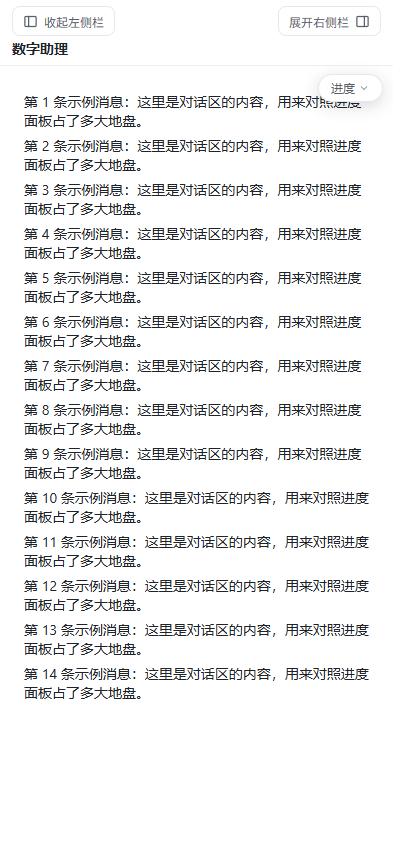
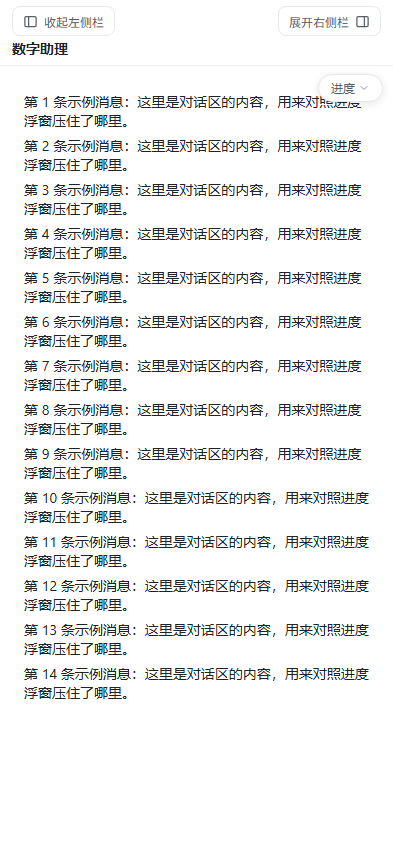
进度面板定位重写：对话区右上角一枚浮窗，折叠＝胶囊、展开＝原地长出的卡片（原「窄屏浮层 / 宽屏流内一行」两套规则合并成一套，无特例）
展开跳位问题：折叠与展开共用同一个右上角锚点（右缘 10px、顶栏下 8px），卡片宽度由 JS 按右侧留白算好写进 --pg-w，所以点开就是从胶囊原地往左下长出来，右缘与顶边一动不动（回归脚本按「展开前后右缘/顶边一致」断言）。

宽度策略：留白放得下就正好塞进留白（借内容列自己的 24px 内边距），一个像素不遮正文——1600 宽实测卡片左缘 1342 ＝ 正文右缘 1342；留白不够（窄屏/中等窗口）才用舒适宽度 340，且默认这时候一律折叠成胶囊，用户点过才展开。面板任何宽度都是浮层：不占对话区高度、出现与折叠切换都不触发重排；CSS 删掉进度面板的窄屏特例整段，:root 补 --tb-h:48px 供浮层对位（窄屏仍覆盖 66px），宽度跟随由窗口缩放 + .msg-col 的 ResizeObserver 驱动（开关左右栏、拖拽调宽对话列都会跟）。

diff --git a/web/app-chat.js b/web/app-chat.js
@@ -1737,19 +1737,37 @@ function renderQuestionsInto(bar) {
   }
 }
 
-/* ---------- 进度面板（progress_write）：可折叠 · 宽屏自动展开 / 窄屏右上角胶囊 ---------- */
-// 进度清单常驻在顶栏下方会一直占掉对话区的高度（手机上尤其致命），所以面板分两态：
-// 收起＝右上角一枚「进度」小胶囊（点它展开），展开＝完整清单（点头部收起）。
-// 用户没点过时按「对话区有没有富余宽度」自动定：宽屏（≥500，与 CSS 的窄屏浮层断点
-// 同源）自动展开；窄屏（手机）没有富余宽度，一律折叠成胶囊，不再顶掉那块高度。
-// 用户点过之后按用户的选择来（本次页面有效，刷新复位）；切换折叠只在本地重画。
-let pgItems = [];       // 最近一次取到的进度项（空 = 没有进度，面板整体隐藏）
-let pgFold = null;      // 用户显式选择：null=自动；true=展开；false=收起
-let pgDrawnOpen = null; // 上次画出来的展开状态（窗口缩放只在状态翻转时重画）
+/* ---------- 进度面板（progress_write）：对话区右上角的一枚浮窗，可折叠 ---------- */
+// 定位只有一个锚点：对话区（#main）的右上角。折叠＝一枚「进度」胶囊，展开＝从同一个
+// 右上角往左下长出来的卡片——右缘与顶边都不动，所以点开是「原地展开」不跳位。
+// 宽度按对话区右侧的留白算（见 pgMetrics）：留白放得下就塞进留白里，不遮正文；留白
+// 不够说明是窄屏/中等窗口，那就用一张舒适宽度的卡（用户自己点开的，遮一点也能接受）。
+// 用户没点过时（pgFold=null）只在留白够的时候自动展开，否则一律折叠成胶囊；点过之后
+// 按用户的选择来（本次页面有效，刷新复位）。面板永远是浮层：不占对话区高度，出现与
+// 折叠切换都不触发对话区重排。
+const PG_W = 340;    // 卡片最大宽度（也是窄屏下舒适阅读宽度）
+const PG_MIN = 220;  // 自动展开的门槛：右侧留白至少放得下这么宽
+const PG_GAP = 10;   // 面板与对话区右缘的间距（胶囊与卡片共用，保证同一锚点）
+const PG_PAD = 24;   // 内容列自身的内边距：留白不够时可以借它，不算遮正文
 
-// 有富余宽度才自动展开：高度也要够（手机横屏高度不足，展开清单会顶掉半屏对话）
-function pgAutoExpand() { return innerWidth >= 500 && innerHeight >= 480; }
-function pgExpanded() { return pgFold === null ? pgAutoExpand() : pgFold; }
+let pgItems = [];    // 最近一次取到的进度项（空 = 没有进度，面板整体隐藏）
+let pgFold = null;   // 用户显式选择：null=自动；true=展开；false=收起
+let pgDrawn = null;  // 上次画出来的展开态（留白变化时只在翻转时才重画）
+
+// 右侧留白 → 卡片宽度与「够不够自动展开」。按 #main 与消息列的实际矩形算，
+// 开关左右栏、拖拽调宽对话列都会自然反映进来（它们都会改变这个留白）。
+function pgMetrics() {
+  const main = $('main'), col = document.querySelector('#messages .msg-col');
+  if (!main || !col) return null;
+  const mainRect = main.getBoundingClientRect();
+  const room = Math.max(0, mainRect.right - col.getBoundingClientRect().right);
+  const fit = room + PG_PAD - PG_GAP; // 塞进留白，顺手借用内容列自己的右内边距
+  return {
+    width: Math.round(Math.min(PG_W, fit >= PG_MIN ? fit : mainRect.width - 2 * PG_GAP)),
+    auto: fit >= PG_MIN,
+  };
+}
+function pgExpanded(mt) { return pgFold === null ? mt.auto : pgFold; }
 
 async function loadProgress() {
   const panel = $('progress-panel');
@@ -1762,16 +1780,19 @@ async function loadProgress() {
   drawProgress();
 }
 
-// 按当前折叠状态重画面板：收起＝胶囊，展开＝头部（整行是收起按钮）+ 清单
+// 按当前折叠状态重画面板：折叠＝胶囊，展开＝头部（整行是收起按钮）+ 清单。
+// 两态共用同一个右上角锚点，宽度写进 --pg-w 交给 CSS，所以展开就是在原地长出来。
 function drawProgress() {
   const panel = $('progress-panel');
   if (!panel) return;
   const items = pgItems;
-  if (!items.length) { panel.classList.add('hidden'); panel.innerHTML = ''; pgDrawnOpen = null; return; }
-  const open = pgExpanded();
-  pgDrawnOpen = open;
+  if (!items.length) { panel.classList.add('hidden'); panel.innerHTML = ''; pgDrawn = null; return; }
+  const mt = pgMetrics() || { width: PG_W, auto: false };
+  const open = pgExpanded(mt);
+  pgDrawn = open;
+  panel.style.setProperty('--pg-w', mt.width + 'px');
   panel.classList.remove('hidden');
-  panel.classList.toggle('pg-folded', !open); // 收起态：胶囊（宽/窄屏各有定位规则）
+  panel.classList.toggle('pg-folded', !open);
   if (!open) {
     panel.innerHTML = '<button type="button" class="pg-pill" title="展开进度清单">进度' + chev('pg-chev') + '</button>';
     panel.querySelector('.pg-pill').onclick = () => { pgFold = true; drawProgress(); };
@@ -1791,10 +1812,22 @@ function drawProgress() {
   panel.querySelector('.progress-head').onclick = () => { pgFold = false; drawProgress(); };
 }
 
-// 窗口缩放/转屏：自动模式下展开与否由宽度决定，翻转了才重画（拖拽缩放过程不重画）
-window.addEventListener('resize', () => {
-  if (pgItems.length && pgExpanded() !== pgDrawnOpen) drawProgress();
-});
+// 留白变了（缩放窗口、开关左右栏、拖拽调宽对话列）：宽度跟着变；自动档下展开态翻转
+// 才重画，其余情况只改宽度不动 DOM
+function syncProgress() {
+  if (!pgItems.length) return;
+  const mt = pgMetrics();
+  if (!mt) return;
+  const panel = $('progress-panel');
+  if (panel && !panel.classList.contains('hidden')) panel.style.setProperty('--pg-w', mt.width + 'px');
+  if (pgExpanded(mt) !== pgDrawn) drawProgress();
+}
+window.addEventListener('resize', syncProgress);
+// 对话列宽度会单独变（拖把手、右栏开合），盯它的尺寸就够了
+if (window.ResizeObserver) {
+  const pgCol = document.querySelector('#messages .msg-col');
+  if (pgCol) new ResizeObserver(syncProgress).observe(pgCol);
+}
 
 /* ---------- SSH 远程工作区（两步式：连接配置 → 保存 → 浏览目录 → 使用） ---------- */
 

diff --git a/AGENT.md b/AGENT.md
@@ -440,12 +440,13 @@ DSH 官方的远程工作区只在 mac/Linux 宿主上可用；本产品用纯 G
   （插入主输入框光标处）、**在右侧辅助问答**——自动打开右栏子对话视图并
   找/建子对话，把选文填入子对话输入框由用户发出，全程不影响主对话区；
   点浮窗不冲掉选区，选区消失 / 滚动 / Escape 即收起。
-- **会话进度面板**（`progress_write` 的渲染）分两态、可折叠：收起＝右上角一枚
-  「进度」胶囊（点开才展开），展开＝带收起头部的清单。默认折叠与否看「对话区有
-  没有富余宽度」：宽屏（≥500，与 CSS 窄屏浮层断点同源）在对话区顶部流内占一行；
-  窄屏（手机）不再占那一行，改右上角浮层（z-index 5，压在消息之上、输入区 6 之下
-  ——报错条永远看得见），点开是限高的浮动卡、长清单卡内滚动。用户点过胶囊/头部后
-  按用户的选择来（本次页面有效，刷新复位）；切换折叠只在本地重画，不回后端取数。
+- **会话进度面板**（`progress_write` 的渲染）是对话区右上角的一枚可折叠浮窗：
+  折叠＝一枚「进度」胶囊，展开＝从同一个右上角往左下长出的卡片（右缘与顶边不动，
+  原地展开不跳位）。宽度按对话区右侧留白算：放得下就塞进留白、不遮正文，放不下
+  就用一张舒适宽度的卡；默认只在留白够的时候自动展开，窄屏/中等窗口一律折叠成
+  胶囊，用户点过之后按用户的选择来（刷新复位）。清单超过半屏高卡内滚动。它永远
+  是浮层（不占对话区高度、切换不触发重排），层级压在消息之上、输入区之下——报错
+  条必须始终看得见。宽度算在 JS（pgMetrics），CSS 只管摆位与两种形态。
 
 ## 子对话：上下文继承与一级限制
 
